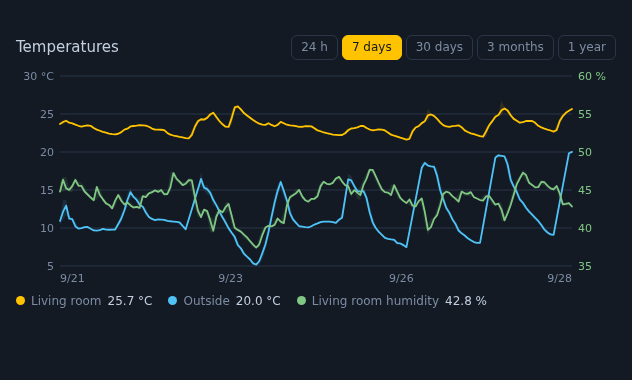
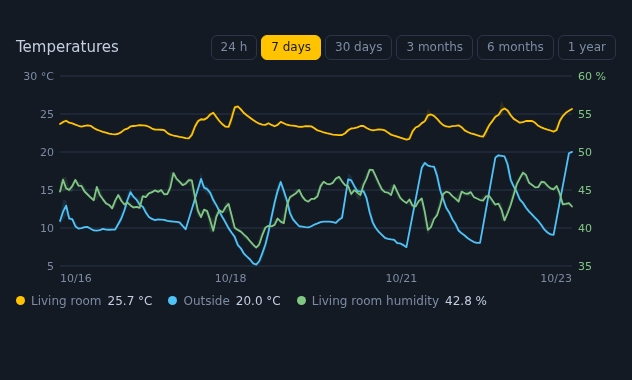
Six months in the default period buttons (1.5.0)

diff --git a/tests/browser/harness.html b/tests/browser/harness.html
@@ -106,7 +106,7 @@ if (shotMode === "events") {
   check("left axis carries °C", texts.some((t) => t.includes("°C")), texts.join("|"));
   check("right axis carries %", texts.some((t) => t.includes("%")), texts.join("|"));
   const buttons = [...q(el, "#periods button")];
-  check("five default period buttons", buttons.length === 5, buttons.length);
+  check("six default period buttons", buttons.length === 6, buttons.length);
   check("'7 days' button active", buttons.find((b) => b.className === "active")?.textContent === "7 days",
         buttons.map((b) => b.className + ":" + b.textContent).join(","));
   check("hourly statistics requested for 7 days", hass.calls[0]?.period === "hour", JSON.stringify(hass.calls[0]));

diff --git a/long-term-chart-card.js b/long-term-chart-card.js
@@ -29,7 +29,7 @@
 
 
 export const CARD_NAME = "long-term-chart-card";
-export const VERSION = "1.4.0";
+export const VERSION = "1.5.0";
 
 // Nine distinct hues - six were one cycle too few for eight room sensors.
 export const COLORS = [
@@ -102,7 +102,7 @@ export function periodLabel(lang, days) {
   return translate(lang, "period_days", { n: days });
 }
 
-export const DEFAULT_PERIOD_DAYS = [1, 7, 30, 90, 365];
+export const DEFAULT_PERIOD_DAYS = [1, 7, 30, 90, 180, 365];
 
 // Round grid steps only, so labels come out as 22, 24, 26 - not 21.7, 23.4.
 // 1 / 2 / 2.5 / 5 for every power of ten from 0.001 to 10^9, so large ranges

diff --git a/tests/helpers.test.js b/tests/helpers.test.js
@@ -141,6 +141,8 @@ test("periodLabel", () => {
   assert.equal(card.periodLabel("en", 7), "7 days");
   assert.equal(card.periodLabel("pl", 7), "7 dni");
   assert.equal(card.periodLabel("en", 90), "3 months");
+  assert.equal(card.periodLabel("en", 180), "6 months");
+  assert.equal(card.periodLabel("pl", 180), "6 mies.");
   assert.equal(card.periodLabel("pl", 365), "rok");
   assert.equal(card.periodLabel("en", 0.5), "12 h");
 });

diff --git a/README.md b/README.md
@@ -138,7 +138,7 @@ template binary sensor in Home Assistant away; put that sensor in `events`.
 | `title` | — | card title |
 | `source` | `statistics` | `statistics` (Home Assistant long-term statistics) or `influx` (InfluxDB Proxy) |
 | `days` | second period button (7 with the default buttons) | period selected when the card loads |
-| `periods` | 1, 7, 30, 90, 365 days | buttons above the chart: `{ days, label }`, label optional |
+| `periods` | 1, 7, 30, 90, 180, 365 days | buttons above the chart: `{ days, label }`, label optional |
 | `show_range` | `true` | draw the min/max band |
 | `band_opacity` | `0.12` | opacity of the min/max band, `0`–`1` (`0` draws no band) |
 | `fill` | `false` | fill the area under every line with a gradient of its colour; per entity with `fill: true/false` |
